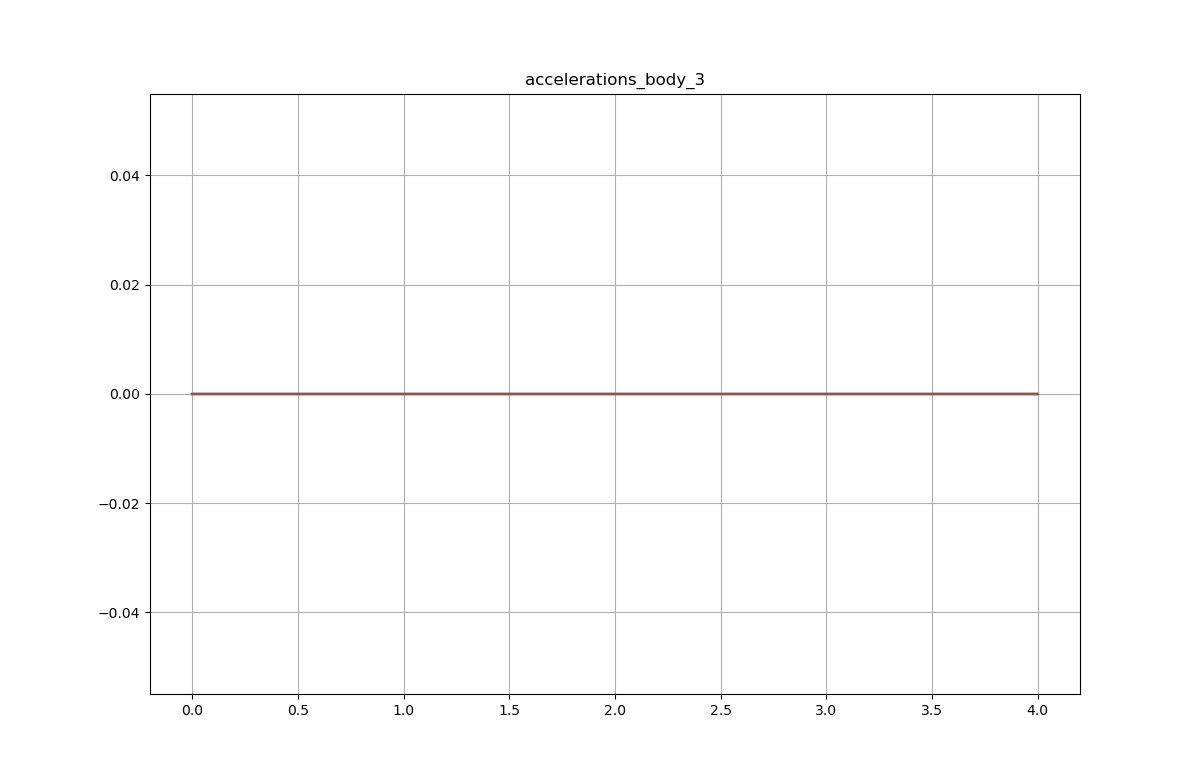
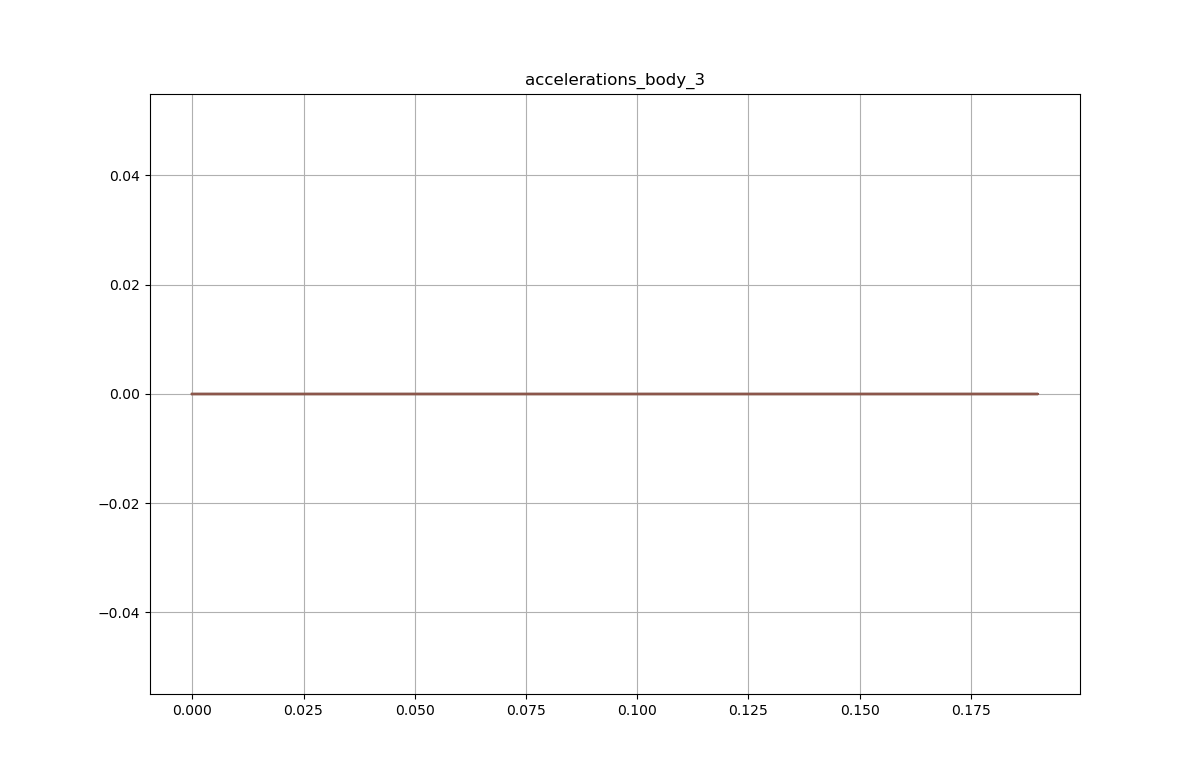
spatial refactor - buggy

diff --git a/src/Tree_forward_dynamics.cpp b/src/Tree_forward_dynamics.cpp
@@ -33,8 +33,11 @@ void SystemOfBodies::EOM__forward_tree(const std::vector<double> &y,
   // already been done through the spatial operator, but now velocities
 
   for (int k = n - 1; k > -1; --k) {
+
     p.body_velocities[k] =
-        spatial_operator_dt[bodies[k]->parent_ID][get_child_index(k)].t() *
+        spatial_operator_dt[bodies[k]->parent_ID - terminal_bodies]
+                           [get_child_index(k)]
+                               .t() *
             p.body_velocities[bodies[k]->parent_ID - 1] +
         bodies[k]->transpose_hinge_map * p.theta_dot[k];
   }
@@ -63,9 +66,10 @@ void SystemOfBodies::EOM__forward_tree(const std::vector<double> &y,
 
   for (int k = n - 1; k > -1; --k) {
 
-    p.accel_plus[k] =
-        spatial_operator_dt[bodies[k]->parent_ID][get_child_index(k)].t() *
-        p.accel[bodies[k]->parent_ID - 1];
+    p.accel_plus[k] = spatial_operator_dt[bodies[k]->parent_ID -
+                                          terminal_bodies][get_child_index(k)]
+                          .t() *
+                      p.accel[bodies[k]->parent_ID - 1];
     p.theta_ddot[k] = p.frac_v[k] - p.G_fractal[k].t() * p.accel_plus[k];
     p.accel[k] = p.accel_plus[k] +
                  bodies[k]->transpose_hinge_map * p.theta_ddot[k] +
@@ -82,18 +86,6 @@ void SystemOfBodies::EOM__forward_tree(const std::vector<double> &y,
 }
 
 void SystemOfBodies::solve_forward_dynamics_tree() {
-
-  // initialize needed spans once
-  if (!spans_initialized) {
-    span_k1_.reserve(n);
-    span_k2_.reserve(n);
-
-    for (int k = 0; k < n; ++k) {
-      span_k1_.emplace_back(6 * k, 6 * (k + 1) - 1);
-      span_k2_.emplace_back(6 * (k + 1), 6 * (k + 2) - 1);
-    }
-    spans_initialized = true;
-  }
 
   forward_parameters p(n, system_total_dof);
 
@@ -179,17 +171,18 @@ std::vector<std::vector<arma::vec6>>
 SystemOfBodies::find_spatial_operator_input_vector_tree(
     const std::vector<arma::vec> &state) const {
 
-  std::vector<std::vector<arma::vec6>> return_vector(n);
+  std::vector<std::vector<arma::vec6>> return_vector(n - terminal_bodies);
 
   // uses the modified theta
-  for (int i = 0; i < n; ++i) {
+  for (int i = terminal_bodies; i < n; ++i) {
     size_t num_out = bodies[i]->out_hinge_tree.size();
-    return_vector[i].resize(num_out);
+    return_vector[i - terminal_bodies].resize(num_out);
 
     arma::vec6 base =
         bodies[i]->hinge_map.t() * state[i] + bodies[i]->hinge_pos;
     for (int j = 0; j < num_out; ++j) {
-      return_vector[i][j] = base - bodies[i]->out_hinge_tree[j];
+      return_vector[i - terminal_bodies][j] =
+          base - bodies[i]->out_hinge_tree[j];
     }
   }
   return return_vector;
@@ -202,15 +195,18 @@ SystemOfBodies::find_spatial_operator_tree(
   std::vector<std::vector<arma::vec6>> rigid_body_transform_vector =
       find_spatial_operator_input_vector_tree(state);
   const arma::mat::fixed<6, 6> I = arma::eye(6, 6);
-  std::vector<std::vector<arma::mat::fixed<6, 6>>> spatial_operator(n + 2);
-  spatial_operator.resize(n + 2);
-  spatial_operator[0].resize(1);
-  spatial_operator[n + 1].resize(1);
-  spatial_operator[0][0] = I;
-  spatial_operator[n + 1][0] = I;
+  std::vector<std::vector<arma::mat::fixed<6, 6>>> spatial_operator(
+      n + 2 - terminal_bodies);
 
-  for (int i = 1; i < n + 1; ++i) {
-    const size_t num_out = bodies[i - 1]->out_hinge_tree.size();
+  spatial_operator.resize(n + 2 - terminal_bodies);
+  spatial_operator[0].resize(1);
+  spatial_operator[n + 1 - terminal_bodies].resize(1);
+  spatial_operator[0][0] = I;
+  spatial_operator[n + 1 - terminal_bodies][0] = I;
+
+  for (int i = 1; i < n + 1 - terminal_bodies; ++i) {
+    const size_t num_out =
+        bodies[i - 1 + terminal_bodies]->out_hinge_tree.size();
     spatial_operator[i].resize(num_out);
 
     for (int j = 0; j < num_out; ++j) {
@@ -255,15 +251,15 @@ void SystemOfBodies::compute_J_fractal(
   } else if (bodies[k]->children_ID.size() == 1) {
     p.J_fractal[k] =
         spatial_operator_dt[bodies[k]->children_ID[0]][0] *
-            p.J_fractal_plus[bodies[k]->children_ID[0] - 1] +
+            p.J_fractal_plus[bodies[k]->children_ID[0]] +
         p.P[k] * coriolis_vector(bodies[k]->transpose_hinge_map,
                                  p.body_velocities[k], p.theta_dot[k]) +
         gyroscopic_force_z(bodies[k]->inertial_matrix, p.body_velocities[k]);
   } else {
     p.J_fractal[k] = arma::zeros<arma::vec>(6);
     for (size_t i = 0; i < bodies[k]->children_ID.size(); ++i) {
-      p.J_fractal[k] += spatial_operator_dt[bodies[k]->children_ID[i]][0] *
-                        p.J_fractal_plus[bodies[k]->children_ID[i] - 1];
+      p.J_fractal[k] += spatial_operator_dt[bodies[k]->children_ID[1]][i] *
+                        p.J_fractal_plus[bodies[k]->children_ID[i]];
     }
     p.J_fractal[k] +=
         p.P[k] * coriolis_vector(bodies[k]->transpose_hinge_map,
@@ -281,15 +277,15 @@ void SystemOfBodies::compute_p(
     p.P[k] = bodies[k]->inertial_matrix;
   } else if (bodies[k]->children_ID.size() == 1) {
     p.P[k] = spatial_operator_dt[bodies[k]->children_ID[0]][0] *
-                 p.P_plus[bodies[k]->children_ID[0] - 1] *
+                 p.P_plus[bodies[k]->children_ID[0]] *
                  spatial_operator_dt[bodies[k]->children_ID[0]][0].t() +
              bodies[k]->inertial_matrix;
   } else {
     p.P[k] = arma::zeros<arma::mat>(6, 6);
     for (int i = 0; i < bodies[k]->children_ID.size(); ++i) {
-      p.P[k] += spatial_operator_dt[bodies[k]->children_ID[i]][0] *
-                p.P_plus[bodies[k]->children_ID[i] - 1] *
-                spatial_operator_dt[bodies[k]->children_ID[i]][0].t();
+      p.P[k] += spatial_operator_dt[bodies[k]->children_ID[1]][i] *
+                p.P_plus[bodies[k]->children_ID[i]] *
+                spatial_operator_dt[bodies[k]->children_ID[1]][i].t();
     }
     p.P[k] += bodies[k]->inertial_matrix;
   }

diff --git a/src/system_of_bodies.h b/src/system_of_bodies.h
@@ -9,6 +9,7 @@
 #include "data_types.h"
 #include "math_utils.h"
 #include <armadillo>
+#include <cstdint>
 #include <memory>
 #include <vector>
 
@@ -16,9 +17,9 @@ class SystemOfBodies {
 public:
   // Simulation attributes
   const double t0{0.0};
-  const double t{4.0};
+  const double t{0.19};
   const double dt{0.01};
-  const double system_gravity{9.81};
+  const float system_gravity{9.81};
   int n{0};
   int system_total_dof = {0};
   bool has_dynamic_time_step{false};
@@ -64,7 +65,7 @@ private:
           J_fractal(n_), body_velocities(n_ + 1), body_forces(n_ + 1),
           G_fractal(n_ + 1), frac_v(n_), dydt_out(system_total_dof_ * 2, 0.0),
           theta(n_), theta_dot(n_), theta_ddot(n_), accel(n_ + 1),
-          accel_plus(n_ + 1)
+          accel_plus(n_)
 
     {
       accel[n_] = arma::vec(6, arma::fill::zeros);
@@ -79,6 +80,9 @@ private:
   int out_count =
       0; // systems with bodies that have multiple children require more
          // iterations in some loops to cover all frame transformations.
+
+  uint_fast8_t terminal_bodies = 0;
+  uint_fast8_t significant_bodies;
 
 public:
   // Methods
@@ -156,6 +160,7 @@ public:
   void compute_J_fractal(const int &k, forward_parameters &p,
                          const std::vector<std::vector<arma::mat::fixed<6, 6>>>
                              &spatial_operator_dt) const;
+  void count_terminals();
 };
 
 #endif // MYPROJECT_SYSTEM_OF_BODIES_H

diff --git a/src/tests_utils.cpp b/src/tests_utils.cpp
@@ -64,7 +64,7 @@ void test_n_body_system(const int n) {
 }
 
 void test_three_body_from_course() {
-  std::array<double, 3> array = {pi, -pi / 4, pi / 6};
+  std::array<double, 3> array = {pi / 4, -pi / 4, pi / 4};
   SystemOfBodies system;
   for (int i = 0; i < 3; ++i) {
     auto rec = std::make_unique<Rectangle_computed>(2.0, 0.1, 0.2, 8.0);
@@ -172,13 +172,16 @@ void test_tree_dynamics() {
   system.set_parent(2, 4, true);
   system.set_parent(1, 3, true);
 
-  system.bodies[0]->children_ID[0] = 0;
   system.bodies[4]->set_outboard_position_vec_hinge_push(array_out_vec[1]);
   system.bodies[4]->set_outboard_position_vec_hinge_push(array_out_vec[2]);
   system.bodies[3]->set_outboard_position_vec_hinge_push(array_out_vec[0]);
   system.bodies[2]->set_outboard_position_vec_hinge_push(array_out_vec[0]);
   system.bodies[1]->set_outboard_position_vec_hinge_push(array_out_vec[0]);
   system.bodies[0]->set_outboard_position_vec_hinge_push(array_out_vec[0]);
+  system.bodies[0]->children_ID[0] = 0;
+  system.bodies[1]->children_ID[0] = 0;
+
+  system.count_terminals();
 
   system.set_stepper_type(false);
   system.solve_forward_dynamics_tree();

diff --git a/src/system_of_bodies.cpp b/src/system_of_bodies.cpp
@@ -181,6 +181,16 @@ void SystemOfBodies::set_parent(const int &idx, const int &parent,
   }
 }
 
+void SystemOfBodies::count_terminals() {
+  for (size_t i = 0; i < bodies.size(); i++) {
+
+    if (bodies[i]->children_ID[0] == 0 && bodies[i]->children_ID.size() == 1) {
+      terminal_bodies += 1;
+    }
+  }
+
+  significant_bodies = n - terminal_bodies;
+}
 //
 void SystemOfBodies::update_system_state() {
   std::cout << std::endl << "new body added" << std::endl;

diff --git a/src/main.cpp b/src/main.cpp
@@ -4,13 +4,13 @@ int main() {
   constexpr int n{100};
 
   // test_single_body_multi_dof();
-  test_three_body_from_course();
+  // test_three_body_from_course();
   // test_n_body_system(n);
   // test_inverse_dynamics_three_body_from_course();
   // test_dense();
   // test_three_body_from_course_with_viz();
   // test_raylib();
-  // test_tree_dynamics();
+  test_tree_dynamics();
 
   return 0;
 }
